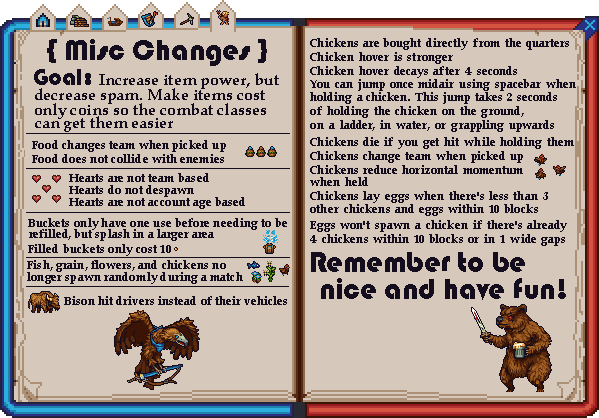
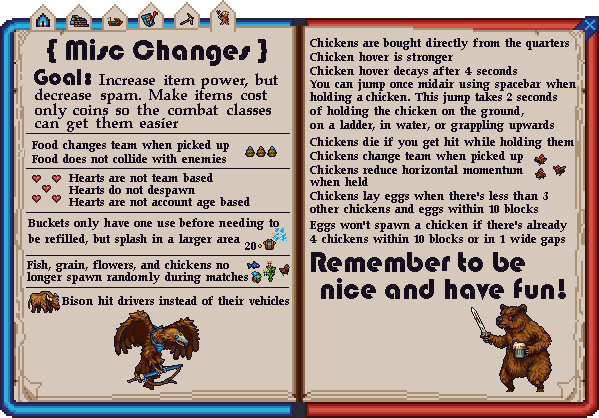
Filled Bucket Costs
Increase filled bucket cost from 15 to 20. Guidebook cleanup

Changed region(s): [[0.0301, 0.5287, 0.4808, 0.7464], [0.0902, 0.3421, 0.4207, 0.4976], [0.0601, 0.1866, 0.4508, 0.311]]

diff --git a/README.md b/README.md
@@ -504,7 +504,7 @@ DISCLAIMER: Developed without compatibility with other mods in mind, so there's 
 - Can only splash once before needing a refill
 - Slightly bigger splash area
 - Can be used in water
-- Cost 15 coins
+- Cost 20 coins
 
 ### Sponges
 - Cost 10 instead of 15 coins to punish players less financially (a lost inventory slot is already a lot)
